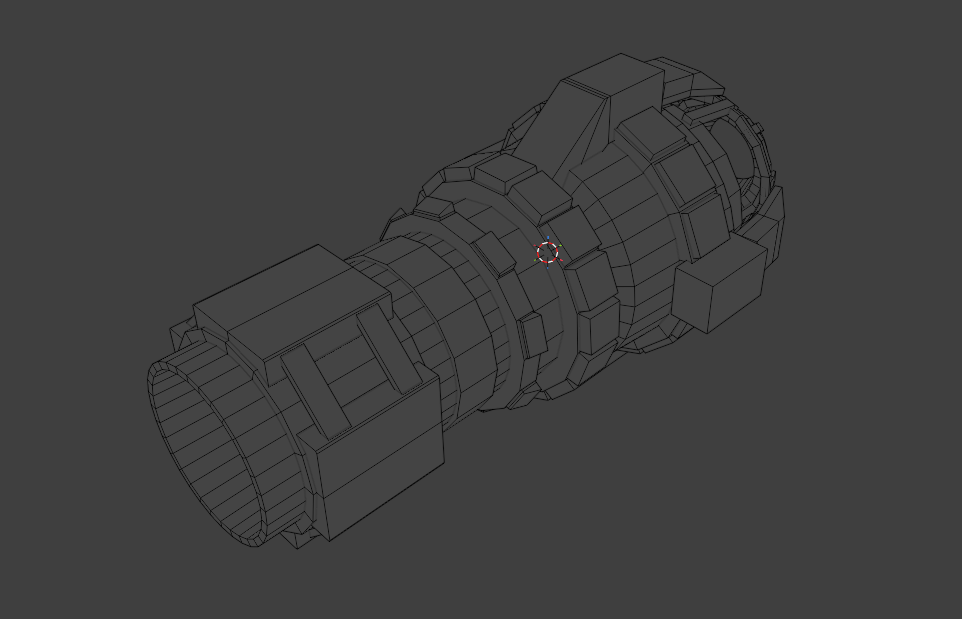
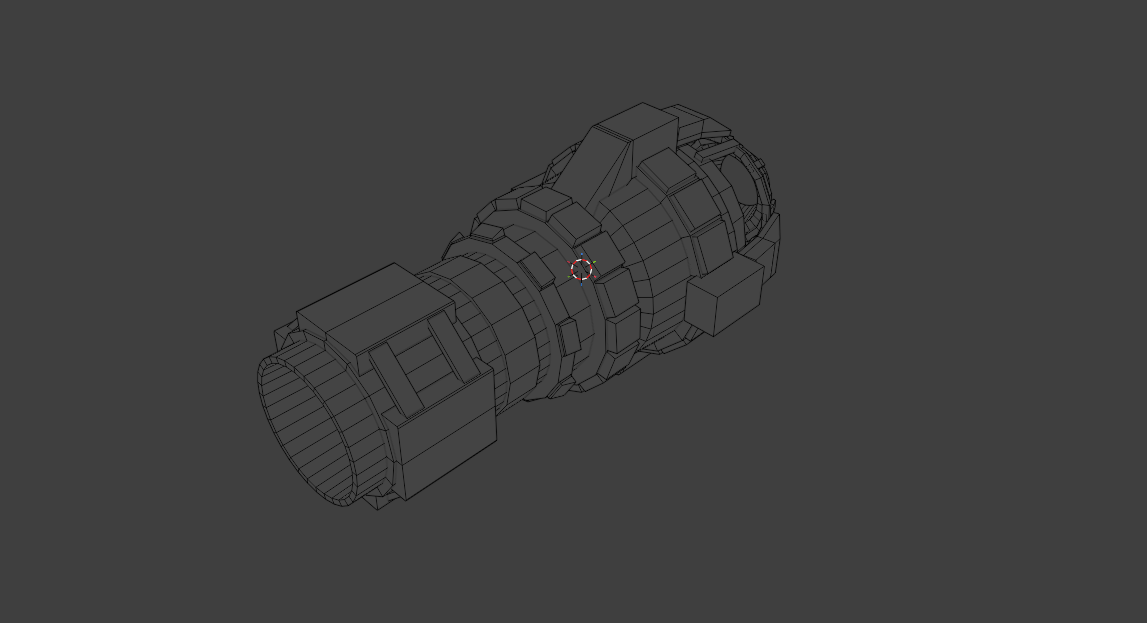
Last fix for tonight prob

diff --git a/README.md b/README.md
@@ -5,8 +5,5 @@ Welcome to my version seven portfolio! This one is by far the most advanced, and
 
 ## Who am I
 
-
-
-Responsive Unity game-development portfolio (plain HTML/CSS/JavaScript).
-
-## Publish with GitHub Pages
+I'm a Unity game developer, who's looking for any opportunities, ideas, or chance to network or get more out there in the game dev community
+and gaming industry. I also act as a 3D artist! I have more experience in the 3D modeling enviroment and area, in Blender.
